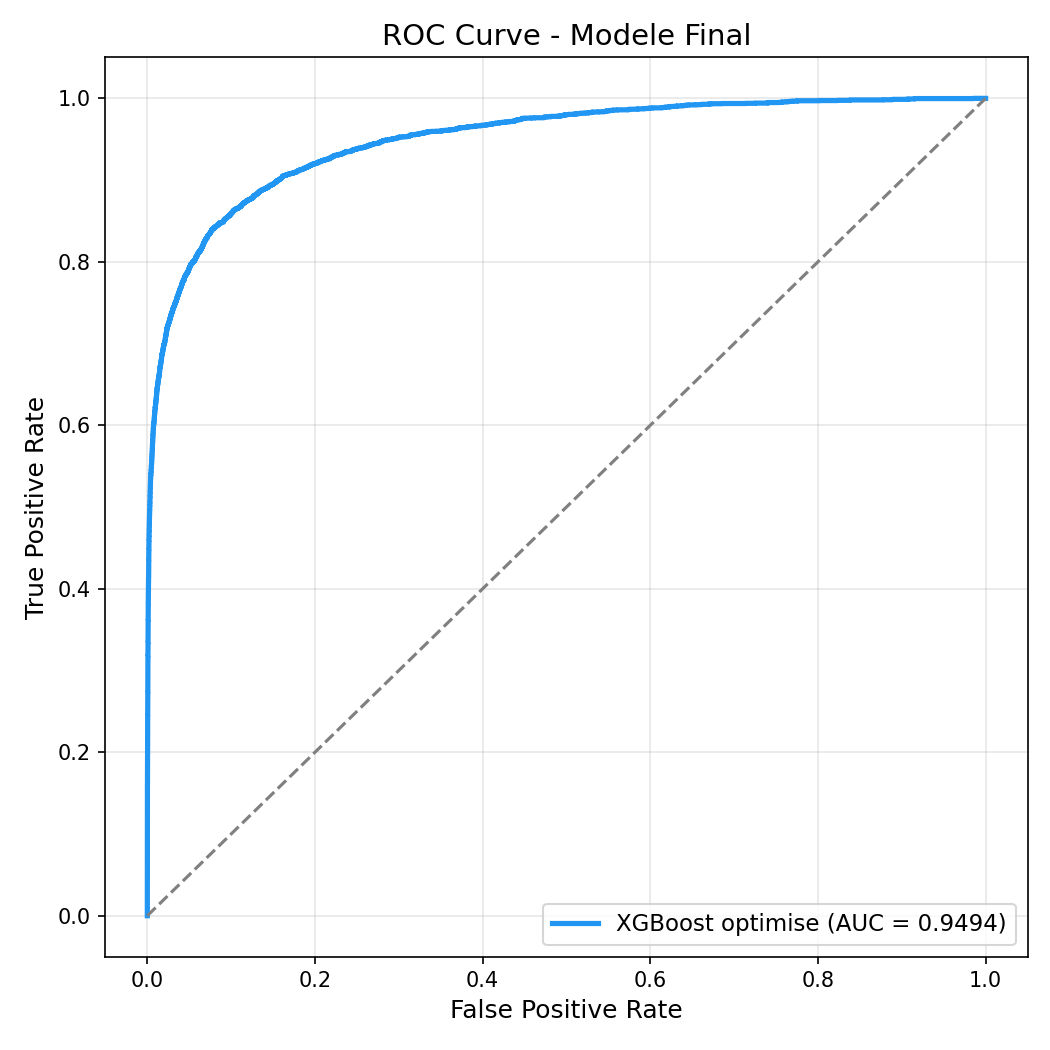
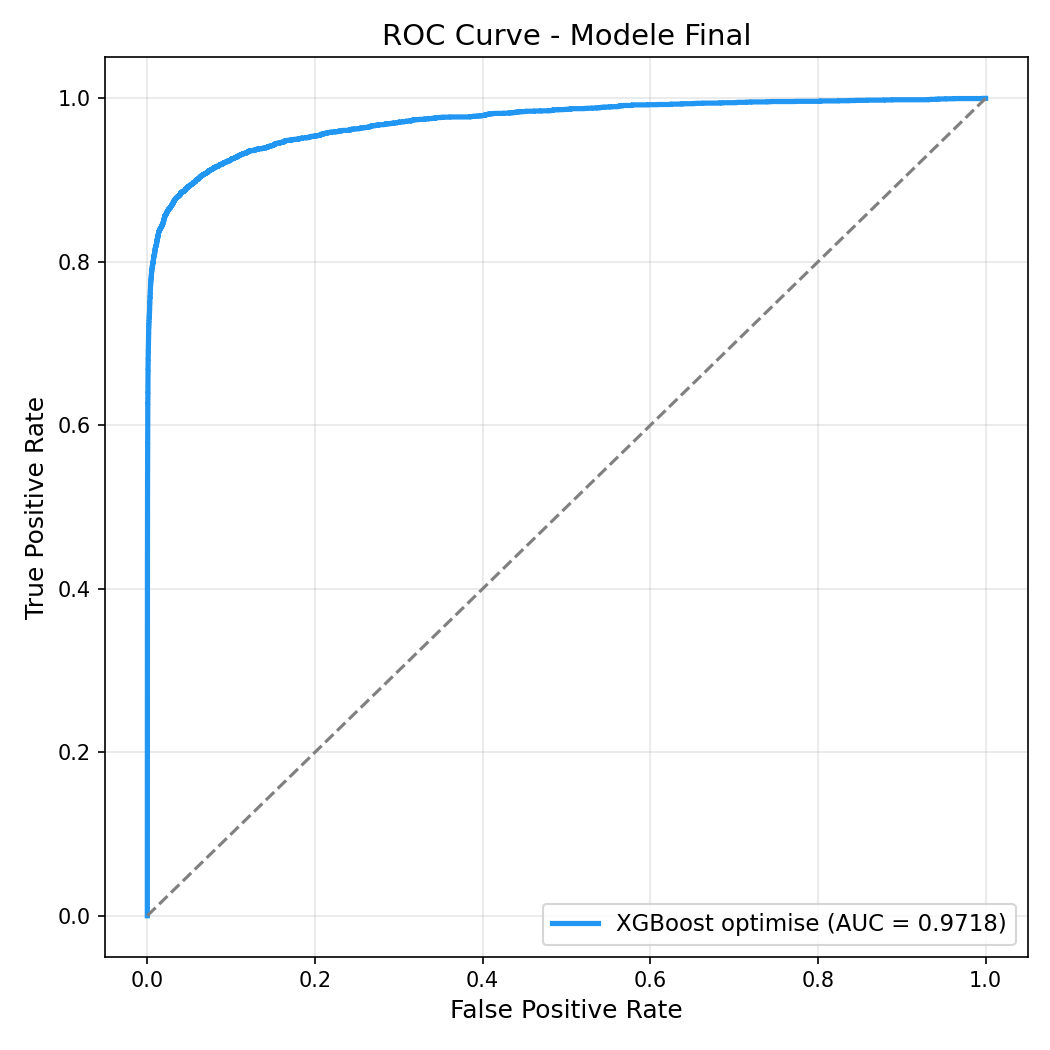
Regenerer les figures du modele final depuis les predictions tunees
final_model.py entraine un XGBoost de base (AUC 0.9494) et produit les
figures final_*.png. Le modele reellement retenu vient de
hyperparameter_tuning.py (AUC 0.9718, seuil 0.56), qui ne genere aucune
figure. Les PNG etaient donc restes sur l'ancien modele :

  final_roc                 AUC 0.9494          -> 0.9718
  final_threshold_analysis  F1 max vers 0.78    -> seuil 0.56
  final_business_impact     seuil 0.67, $359052 -> 0.56, $419729
  final_confusion_scenarios seuil 0.83, F1 0.664 -> 0.56, F1 0.821

Nouveau script regenerate_final_figures.py : repart de
tuned_predictions.npz avec la meme logique metier que final_model.py
($149 / $15). Numpy + matplotlib uniquement, donc rejouable sans
reentrainer. Les valeurs obtenues correspondent exactement a
final_model_report.txt et base_threshold_tuning_report.txt.

diff --git a/capstone-ssl-fraud-detection/src/regenerate_final_figures.py b/capstone-ssl-fraud-detection/src/regenerate_final_figures.py
@@ -1,0 +1,234 @@
+"""
+=================================================================
+Regeneration des figures du modele final (XGBoost tune)
+=================================================================
+Contexte : final_model.py entraine un XGBoost de base (AUC 0.9494)
+et genere les figures final_*.png. Le modele reellement retenu vient
+de hyperparameter_tuning.py (AUC 0.9718, seuil 0.56) mais ce script
+ne produit aucune figure. Les PNG etaient donc restes sur l'ancien
+modele.
+
+Ce script regenere les 4 figures a partir des predictions reelles du
+modele tune (reports/results/tuned_predictions.npz), avec exactement
+la meme logique metier que final_model.py.
+
+Usage :
+    python src/regenerate_final_figures.py
+=================================================================
+"""
+
+import os
+import numpy as np
+import matplotlib
+matplotlib.use("Agg")
+import matplotlib.pyplot as plt
+
+HERE = os.path.dirname(os.path.abspath(__file__))
+ROOT = os.path.dirname(HERE)
+FIGURES_DIR = os.path.join(ROOT, "reports", "figures")
+RESULTS_DIR = os.path.join(ROOT, "reports", "results")
+PREDICTIONS = os.path.join(RESULTS_DIR, "tuned_predictions.npz")
+
+# Hypotheses metier (identiques a final_model.py)
+AVG_FRAUD_AMOUNT = 149.0
+COST_INVESTIGATION = 15.0
+
+SEUIL_RETENU = 0.56  # seuil du modele final (meilleur F1)
+
+
+def load_predictions():
+    data = np.load(PREDICTIONS)
+    return data["y_true"].astype(int), data["y_proba"].astype(float)
+
+
+def roc_curve(y_true, y_proba):
+    """Courbe ROC + AUC (equivalent sklearn, sans dependance)."""
+    order = np.argsort(-y_proba)
+    y = y_true[order]
+    tps = np.cumsum(y)
+    fps = np.cumsum(1 - y)
+    n_pos, n_neg = y.sum(), len(y) - y.sum()
+    tpr = np.concatenate([[0.0], tps / n_pos])
+    fpr = np.concatenate([[0.0], fps / n_neg])
+    auc = np.trapezoid(tpr, fpr)
+    return fpr, tpr, auc
+
+
+def analyze_thresholds(y_true, y_proba):
+    """Precision / recall / F1 / impact financier pour chaque seuil."""
+    rows = []
+    for t in np.arange(0.05, 0.96, 0.01):
+        y_pred = y_proba >= t
+        tp = int((y_pred & (y_true == 1)).sum())
+        fp = int((y_pred & (y_true == 0)).sum())
+        fn = int((~y_pred & (y_true == 1)).sum())
+        tn = int((~y_pred & (y_true == 0)).sum())
+
+        prec = tp / (tp + fp) if (tp + fp) > 0 else 0.0
+        rec = tp / (tp + fn) if (tp + fn) > 0 else 0.0
+        f1 = 2 * prec * rec / (prec + rec) if (prec + rec) > 0 else 0.0
+
+        money_saved = tp * AVG_FRAUD_AMOUNT
+        investigation_cost = (tp + fp) * COST_INVESTIGATION
+
+        rows.append({
+            "threshold": round(float(t), 2),
+            "precision": prec, "recall": rec, "f1": f1,
+            "tp": tp, "fp": fp, "fn": fn, "tn": tn,
+            "money_saved": money_saved,
+            "investigation_cost": investigation_cost,
+            "net_benefit": money_saved - investigation_cost,
+        })
+    return rows
+
+
+def col(rows, key):
+    return np.array([r[key] for r in rows])
+
+
+def row_at(rows, threshold):
+    return min(rows, key=lambda r: abs(r["threshold"] - threshold))
+
+
+def plot_roc(y_true, y_proba):
+    fpr, tpr, auc = roc_curve(y_true, y_proba)
+
+    fig, ax = plt.subplots(figsize=(7, 7))
+    ax.plot(fpr, tpr, linewidth=2.5,
+            label=f"XGBoost optimise (AUC = {auc:.4f})", color="#2196F3")
+    ax.plot([0, 1], [0, 1], "--", color="gray")
+    ax.set_xlabel("False Positive Rate", fontsize=12)
+    ax.set_ylabel("True Positive Rate", fontsize=12)
+    ax.set_title("ROC Curve - Modele Final", fontsize=14)
+    ax.legend(fontsize=11, loc="lower right")
+    ax.grid(True, alpha=0.3)
+    fig.tight_layout()
+    fig.savefig(os.path.join(FIGURES_DIR, "final_roc.png"), dpi=150)
+    plt.close(fig)
+    print(f"  final_roc.png (AUC = {auc:.4f})")
+    return auc
+
+
+def plot_threshold_analysis(rows):
+    t = col(rows, "threshold")
+    retenu = row_at(rows, SEUIL_RETENU)
+
+    fig, ax = plt.subplots(figsize=(10, 6))
+    ax.plot(t, col(rows, "precision"), "-", label="Precision", linewidth=2, color="#2196F3")
+    ax.plot(t, col(rows, "recall"), "-", label="Recall", linewidth=2, color="#E53935")
+    ax.plot(t, col(rows, "f1"), "-", label="F1-score", linewidth=2.5, color="#4CAF50")
+
+    ax.axvline(x=retenu["threshold"], linestyle="--", color="red", alpha=0.6)
+    ax.annotate(
+        f"Seuil retenu: {retenu['threshold']:.2f}\n"
+        f"F1={retenu['f1']:.4f}  P={retenu['precision']:.4f}  R={retenu['recall']:.4f}",
+        xy=(retenu["threshold"], retenu["f1"]),
+        xytext=(retenu["threshold"] + 0.12, retenu["f1"] - 0.22),
+        fontsize=9, ha="left",
+        bbox=dict(boxstyle="round", facecolor="lightyellow", edgecolor="black"),
+        arrowprops=dict(arrowstyle="->", color="red", alpha=0.7),
+    )
+
+    ax.set_xlabel("Seuil de decision", fontsize=12)
+    ax.set_ylabel("Score", fontsize=12)
+    ax.set_title("Precision / Recall / F1 selon le seuil", fontsize=14)
+    ax.legend(fontsize=11, loc="lower left")
+    ax.grid(True, alpha=0.3)
+    fig.tight_layout()
+    fig.savefig(os.path.join(FIGURES_DIR, "final_threshold_analysis.png"), dpi=150)
+    plt.close(fig)
+    print(f"  final_threshold_analysis.png (F1 max au seuil {retenu['threshold']:.2f})")
+
+
+def plot_business_impact(rows):
+    t = col(rows, "threshold")
+    retenu = row_at(rows, SEUIL_RETENU)
+
+    fig, ax = plt.subplots(figsize=(10, 6))
+    ax.plot(t, col(rows, "money_saved") / 1000, "-",
+            label="Argent sauve ($K)", linewidth=2, color="#4CAF50")
+    ax.plot(t, col(rows, "investigation_cost") / 1000, "-",
+            label="Cout total investigations ($K)", linewidth=2, color="#FF9800")
+    ax.plot(t, col(rows, "net_benefit") / 1000, "-",
+            label="Benefice net ($K)", linewidth=2.5, color="#2196F3")
+
+    ax.axvline(x=retenu["threshold"], linestyle="--", color="red", alpha=0.6)
+    ax.annotate(
+        f"Seuil retenu: {retenu['threshold']:.2f}\nBenefice: ${retenu['net_benefit']:,.0f}",
+        xy=(retenu["threshold"], retenu["net_benefit"] / 1000),
+        xytext=(retenu["threshold"] + 0.12, retenu["net_benefit"] / 1000 - 60),
+        fontsize=9,
+        bbox=dict(boxstyle="round", facecolor="lightyellow", edgecolor="black"),
+        arrowprops=dict(arrowstyle="->", color="red", alpha=0.7),
+    )
+
+    ax.set_xlabel("Seuil de decision", fontsize=12)
+    ax.set_ylabel("Montant ($K)", fontsize=12)
+    ax.set_title("Impact financier selon le seuil de decision", fontsize=14)
+    ax.legend(fontsize=10)
+    ax.grid(True, alpha=0.3)
+    fig.tight_layout()
+    fig.savefig(os.path.join(FIGURES_DIR, "final_business_impact.png"), dpi=150)
+    plt.close(fig)
+    print(f"  final_business_impact.png (benefice ${retenu['net_benefit']:,.0f} au seuil {retenu['threshold']:.2f})")
+
+
+def plot_confusion_scenarios(y_true, y_proba, rows):
+    best_profit = max(rows, key=lambda r: r["net_benefit"])
+    recall80 = max([r for r in rows if r["recall"] >= 0.80], key=lambda r: r["f1"])
+
+    scenarios = [
+        ("Seuil retenu (F1 max)", row_at(rows, SEUIL_RETENU)),
+        ("Recall >= 80%", recall80),
+        ("Max profit", best_profit),
+    ]
+
+    fig, axes = plt.subplots(1, len(scenarios), figsize=(6 * len(scenarios), 5))
+    for ax, (name, r) in zip(axes, scenarios):
+        cm = np.array([[r["tn"], r["fp"]], [r["fn"], r["tp"]]])
+        ax.imshow(cm, cmap="Blues")
+        for i in range(2):
+            for j in range(2):
+                ax.text(j, i, f"{cm[i, j]:,d}", ha="center", va="center",
+                        fontsize=13,
+                        color="white" if cm[i, j] > cm.max() / 2 else "black")
+        ax.set_xticks([0, 1], ["Legitime", "Fraude"])
+        ax.set_yticks([0, 1], ["Legitime", "Fraude"])
+        ax.set_title(f"{name}\n(seuil={r['threshold']:.2f}, F1={r['f1']:.3f})", fontsize=11)
+        ax.set_xlabel("Predit")
+        ax.set_ylabel("Reel")
+
+    fig.tight_layout()
+    fig.savefig(os.path.join(FIGURES_DIR, "final_confusion_scenarios.png"), dpi=150)
+    plt.close(fig)
+    print("  final_confusion_scenarios.png (seuils %s)" %
+          ", ".join(f"{r['threshold']:.2f}" for _, r in scenarios))
+
+
+def run():
+    print("=" * 65)
+    print("  REGENERATION DES FIGURES - MODELE FINAL TUNE")
+    print("=" * 65)
+
+    y_true, y_proba = load_predictions()
+    print(f"\nPredictions : {len(y_true):,} lignes de validation, "
+          f"{int(y_true.sum()):,} fraudes")
+
+    rows = analyze_thresholds(y_true, y_proba)
+    retenu = row_at(rows, SEUIL_RETENU)
+    print(f"Seuil {retenu['threshold']:.2f} : "
+          f"P={retenu['precision']:.4f} R={retenu['recall']:.4f} "
+          f"F1={retenu['f1']:.4f} TP={retenu['tp']:,} FP={retenu['fp']:,} "
+          f"Benefice=${retenu['net_benefit']:,.0f}")
+
+    print("\nFigures generees :")
+    plot_roc(y_true, y_proba)
+    plot_threshold_analysis(rows)
+    plot_business_impact(rows)
+    plot_confusion_scenarios(y_true, y_proba, rows)
+
+    print("\nTermine.")
+
+
+if __name__ == "__main__":
+    run()
